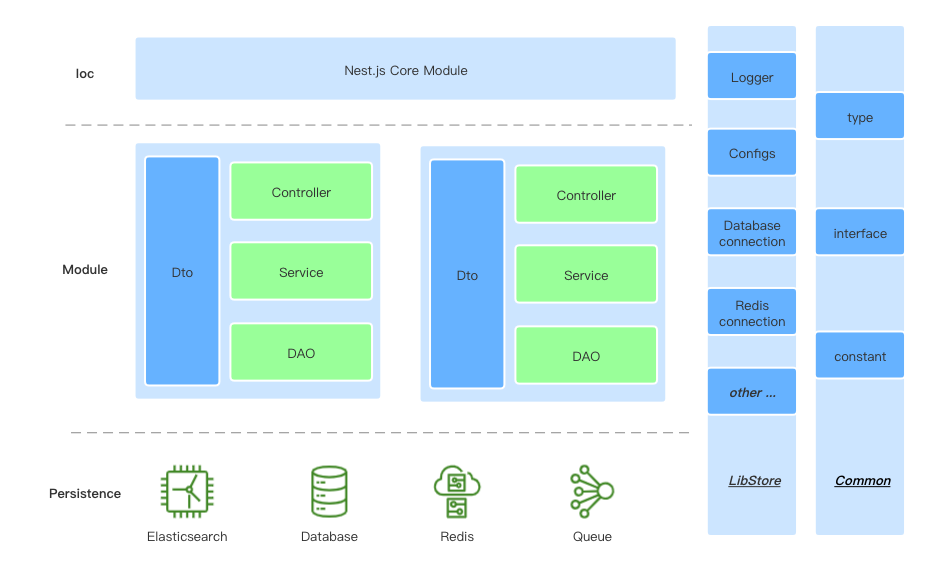
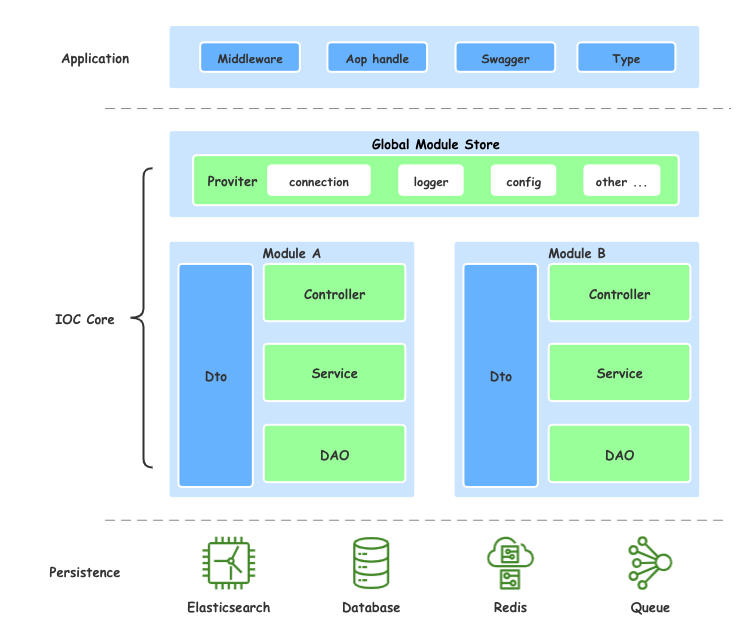
feat: 🐂 🍺  Integrate the most awesome Module Store, simplify the initialization process of Swagger, optimize global variable management

diff --git a/src/server.ts b/src/server.ts
@@ -1,30 +1,35 @@
 import * as helmet from 'helmet';
-
 import { CoreModule } from '@modules';
 import { getConfigs } from '@configs';
+import { StoreKeys } from '@common';
 import { NestFactory } from '@nestjs/core';
-import { Filter, Interceptor, Pipe } from '@sophons/nest-tools';
-import { DocumentBuilder, SwaggerModule } from '@nestjs/swagger';
-import { libStore, getDatabase, getLogger, getRedis } from '@lib';
+import { getDatabase, getLogger, getRedis } from '@lib';
+import { Pipe, Filter, Interceptor, Swagger, StoreModule, StoreProvider } from '@sophons/nest-tools';
 
 /**
- * In the startup function, the Server and Swagger document are initialized after declaring the Global Lib Store
+ * In the startup function, the Server and Swagger document are initialized after declaring the Global Lib Store.
  */
 export const createServer = async () => {
   /**
-   * Initialize the global variable
-   */
-  const logger = getLogger();
-  const configs = getConfigs();
-  libStore.set('logger', logger);
-  libStore.set('configs', configs);
-  libStore.set('redis', await getRedis(configs.redis));
-  libStore.set('database', await getDatabase(configs.database));
-
-  /**
-   * Initialize the Server application and bind the middleware to the AOP processor
+   * Initialize server application and server store.
    */
   const app = await NestFactory.create(CoreModule, { cors: true });
+  const libStore: StoreProvider<StoreKeys> = app.select(StoreModule).get(StoreProvider, { strict: true });
+
+  /**
+   * Initialize the store instance.
+   */
+  const configs = await getConfigs();
+  const logger = await getLogger();
+
+  libStore.save('logger', await getLogger());
+  libStore.save('configs', await getConfigs());
+  libStore.save('redis', await getRedis(configs.redis));
+  libStore.save('database', await getDatabase(configs.database));
+
+  /**
+   * Initialize the server application middleware and aop handler.
+   */
   app.use(helmet());
   app.useGlobalInterceptors(new Interceptor.RequestId(logger));
   app.useGlobalPipes(new Pipe.ValidateDto());
@@ -33,15 +38,14 @@ export const createServer = async () => {
   app.useGlobalInterceptors(new Interceptor.RequestFormat());
 
   /**
-   * Init swagger document
+   * Create swagger document.
    */
-  const doc = new DocumentBuilder().setTitle(configs.appname).build();
-  const swagger = SwaggerModule.createDocument(app, doc);
-  SwaggerModule.setup('/doc', app, swagger); // Declare swagger document routing
+  Swagger.create(app);
 
   /**
-   * Start the Server application, bind the port, and log info
+   * Start the server application.
    */
   await app.listen(configs.port);
+
   logger.info(`[${configs.appname}]: SERVER START WITH ${configs.env} - ${configs.port}`);
 };

diff --git a/src/modules/user/service.ts b/src/modules/user/service.ts
@@ -1,31 +1,27 @@
 import { Redis } from 'ioredis';
-import { libStore } from '@lib';
 import { Configs } from '@configs';
+import { StoreKeys } from '@common';
 import { Injectable } from '@nestjs/common';
+import { StoreProvider } from '@sophons/nest-tools';
 
 import { UserDao } from './dao';
 import { FindUserDto, CreateUserDto, UpdateUserDto } from './dto';
 
 @Injectable()
 export class UserService {
-
-  /**
-   * Self-managing dependencies
-   */
-  private readonly redis = libStore.get<Redis>('redis');
-  private readonly configs = libStore.get<Configs>('configs');
-
-  /**
-   * Use Ioc containers to manage dependencies
-   */
-  constructor(private readonly dao: UserDao) {}
+  constructor(
+    private readonly dao: UserDao,
+    private readonly store: StoreProvider<StoreKeys>,
+  ) {}
 
   async getAppname() {
-    const record = await this.redis.get('appname');
+    const redis = this.store.get<Redis>('redis');
+    const configs = this.store.get<Configs>('configs');
 
-    if (!record) {
-      await this.redis.set('appname', this.configs.appname);
-      return this.configs.appname;
+    const record = await redis.get('appname');
+    if (!await redis.get('appname')) {
+      await redis.set('appname', configs.appname);
+      return configs.appname;
     }
     return record;
   }

diff --git a/src/modules/user/dao.ts b/src/modules/user/dao.ts
@@ -1,17 +1,17 @@
-import { libStore } from '@lib';
 import { User } from '@entities';
+import { StoreKeys } from '@common';
 import { Injectable } from '@nestjs/common';
 import { Sequelize } from 'sequelize-typescript';
+import { StoreProvider } from '@sophons/nest-tools';
 
 import { CreateUserDto, UpdateUserDto } from './dto';
 
 @Injectable()
 export class UserDao {
 
-  /**
-   * Self-managing dependencies
-   */
-  private readonly db = libStore.get<Sequelize>('database');
+  constructor(
+    private readonly store: StoreProvider<StoreKeys>,
+  ) {}
 
   async findOne(id: number) {
     const result = await User.findOne({ where: { id }});
@@ -24,10 +24,12 @@ export class UserDao {
   }
 
   async update(dto: UpdateUserDto) {
-    // Transaction execution
-    this.db.transaction(async (transaction) => {
-      const { id, name, email, phone } = dto;
-      await User.update({ name, email, phone }, { where: { id }, transaction });
-    });
+    this
+      .store
+      .get<Sequelize>('database')
+      .transaction(async (transaction) => {
+        const { id, name, email, phone } = dto;
+        await User.update({ name, email, phone }, { where: { id }, transaction });
+      });
   }
 }

diff --git a/src/configs/base.ts b/src/configs/base.ts
@@ -13,7 +13,11 @@ const { NODE_ENV = 'dev', NODE_PORT = 3000, NODE_APP_NAME = 'api' } = process.en
 /**
  * get global configs
  */
-export const getConfigs = (env: string = NODE_ENV, appname: string = NODE_APP_NAME, port: string | number = NODE_PORT): Configs => {
+export const getConfigs = async (
+  env: string = NODE_ENV,
+  appname: string = NODE_APP_NAME,
+  port: string | number = NODE_PORT,
+) : Promise<Configs> => {
   const dict = { dev, test, pre, prod };
   return { env, port, appname, ...common, ...dict[env] };
 };

diff --git a/src/modules/user/index.ts b/src/modules/user/index.ts
@@ -1,15 +1,5 @@
-import { Module } from '@nestjs/common';
-
-import { UserController } from './controller';
-import { UserService } from './service';
-import { UserDao } from './dao';
-
-const controllers = [UserController];
-const services = [UserService];
-const daos = [UserDao];
-
-@Module({
-  controllers,
-  providers: [...services, ...daos],
-})
-export class UserModule {}
+export * from './module';
+export * from './controller';
+export * from './service';
+export * from './dao';
+export * from './dto';

diff --git a/src/modules/index.ts b/src/modules/index.ts
@@ -1,12 +1,20 @@
 import { Module } from '@nestjs/common';
+import { HealthModule, StoreModule } from '@sophons/nest-tools';
 
 import { UserModule } from './user';
-import { HealthModule } from './health';
 
 @Module({
   imports: [
+    /**
+     * The common modules
+     */
+    StoreModule,
+    HealthModule,
+
+    /**
+     * The business logic modules
+     */
     UserModule,
-    HealthModule, // HealthModule Must be declared at the end
   ],
 })
 

diff --git a/src/modules/user/module.ts b/src/modules/user/module.ts
@@ -1,0 +1,15 @@
+import { Module } from '@nestjs/common';
+
+import { UserController } from './controller';
+import { UserService } from './service';
+import { UserDao } from './dao';
+
+const controllers = [UserController];
+const services = [UserService];
+const daos = [UserDao];
+
+@Module({
+  controllers,
+  providers: [...services, ...daos],
+})
+export class UserModule {}

diff --git a/src/common/types.ts b/src/common/types.ts
@@ -2,3 +2,8 @@
  * In the current file, declare type
  */
 export type Env = 'dev' | 'test' | 'pre' | 'prod';
+
+/**
+ * Only declared variables can be used
+ */
+export type StoreKeys = 'database'| 'configs' | 'logger' | 'redis';

diff --git a/src/lib/logger.ts b/src/lib/logger.ts
@@ -1,3 +1,3 @@
 import { NestLogger } from '@sophons/nest-tools';
 
-export const getLogger = () => new NestLogger();
+export const getLogger = async () => new NestLogger();

diff --git a/src/lib/index.ts b/src/lib/index.ts
@@ -1,4 +1,3 @@
-export * from './store';
 export * from './redis';
 export * from './logger';
 export * from './database';

diff --git a/README.MD b/README.MD
@@ -9,3 +9,40 @@
 ## Architecture diagram
 
 ![architecture diagram](docs/img/server.png)
+
+## Structure
+
+- **src/**
+  - **common/**
+    - **types/** (or **.ts**)
+    - **interfaces/** (or **.ts**)
+    - **constants/** (or **.ts**)
+  - **configs/**
+    - base.ts
+    - common.ts
+    - config.dev.ts
+    - config.test.ts
+    - config.pre.ts
+    - config.prod.ts
+    - interface.ts
+    - index.ts
+  - **entities/**
+    - base.ts
+    - index.ts
+    - **YOUR ENTITY**.ts
+  - **lib/**
+    - database.ts
+    - logger.ts
+    - redis.ts
+    - index.ts
+  - **modules/**
+    - index.ts
+    - **YOUR MODULE/**
+      - **controller/** (or **.ts**)
+      - **service/** (or **.ts**)
+      - **dao/** (or **.ts**)
+      - **dto/** (or **.ts**)
+      - module.ts
+      - index.ts
+  - server.ts
+  - main.ts

diff --git a/docs/en.md b/docs/en.md
@@ -29,40 +29,3 @@ npm install --production
 # run on production
 npm run start
 ```
-
-## Project Structure
-
-- **src/**
-  - **common/**
-    - **types/** (or **.ts**)
-    - **interfaces/** (or **.ts**)
-    - **constants/** (or **.ts**)
-  - **configs/**
-    - base.ts
-    - common.ts
-    - config.dev.ts
-    - config.test.ts
-    - config.pre.ts
-    - config.prod.ts
-    - interface.ts
-    - index.ts
-  - **entities/**
-    - base.ts
-    - index.ts
-    - **YOUR ENTITY**.ts
-  - **lib/**
-    - database.ts
-    - logger.ts
-    - store.ts
-    - redis.ts
-    - index.ts
-  - **modules/**
-    - index.ts
-    - module
-      - **controller/** (or **.ts**)
-      - **service/** (or **.ts**)
-      - **dao/** (or **.ts**)
-      - **dto/** (or **.ts**)
-      - index.ts
-  - server.ts
-  - main.ts
